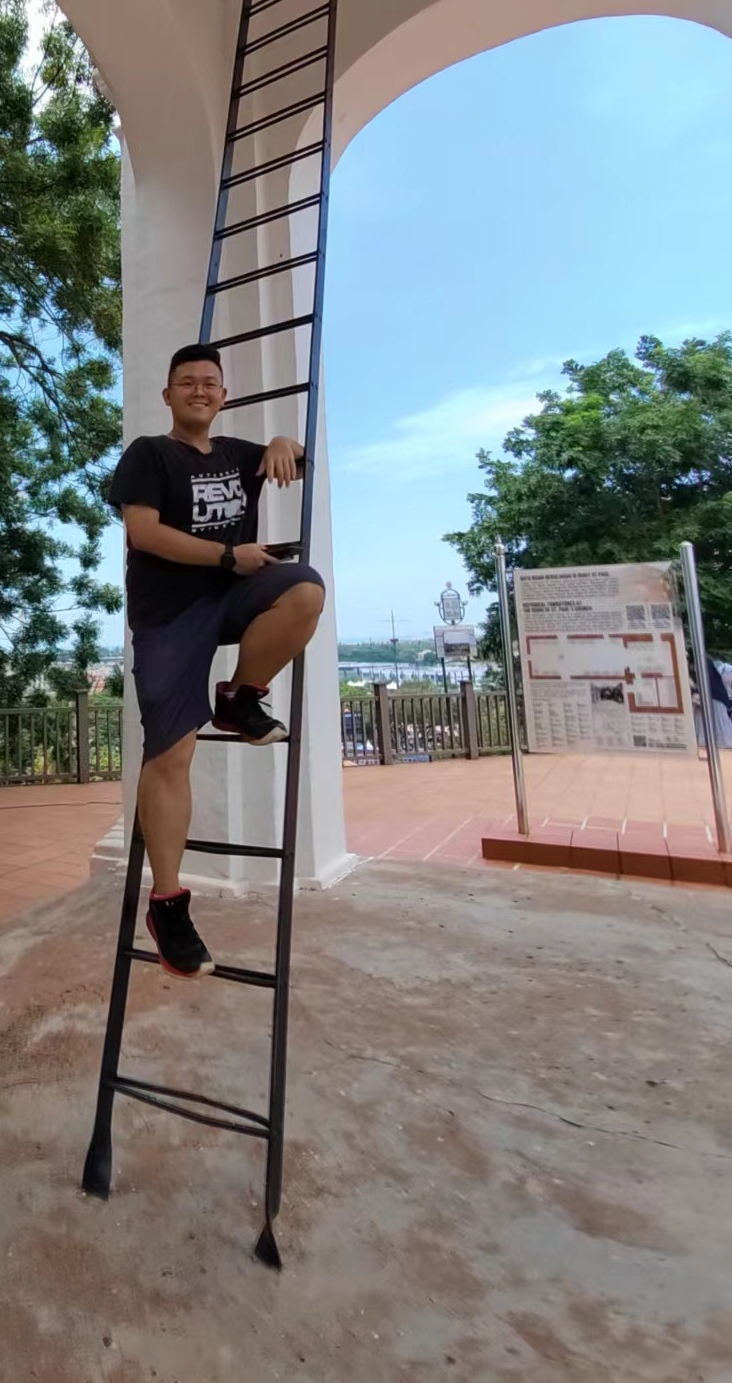
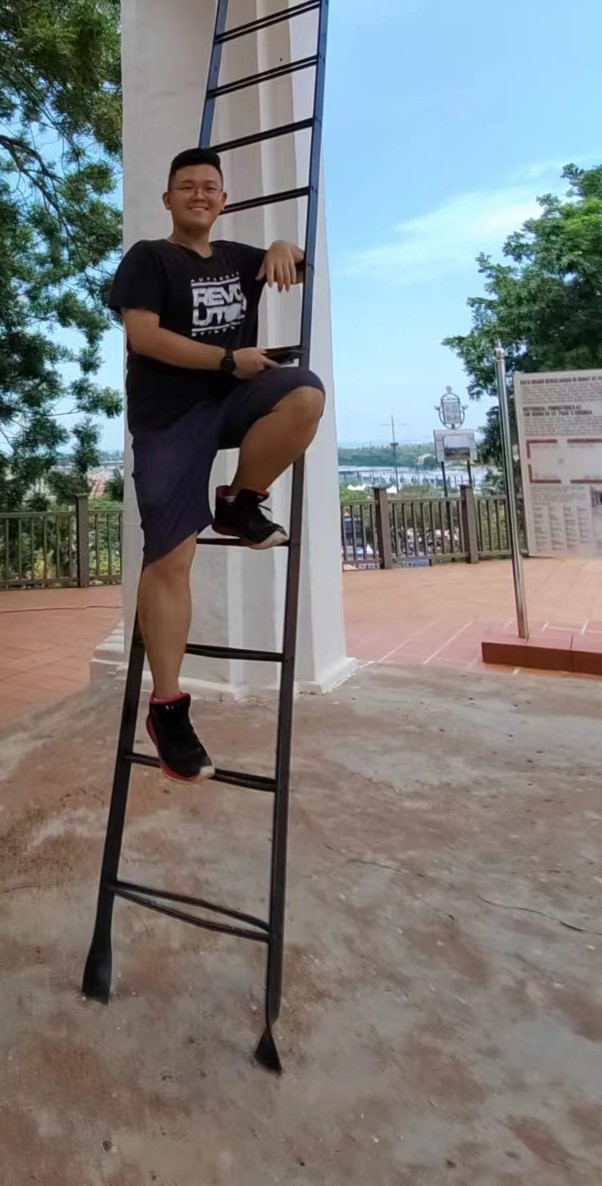
add image, code for reponsive,footer,font family

diff --git a/index.html b/index.html
@@ -5,24 +5,55 @@
     <title>TanXiaoWen Profile</title>
     <link rel="stylesheet" type="text/css" href="cssfolder/indexcss.css">
     <meta name="viewport" content="width=device-width, initial-scale=1.0">
+    <link rel="preconnect" href="https://fonts.googleapis.com">
+    <link rel="preconnect" href="https://fonts.gstatic.com" crossorigin>
+    <link
+        href="https://fonts.googleapis.com/css2?family=Bodoni+Moda:opsz@6..96&family=Cinzel:wght@500&family=Cormorant+Infant:wght@500&family=DM+Serif+Display&family=Frank+Ruhl+Libre&family=Heebo:wght@100&family=Kolker+Brush&family=Libre+Caslon+Display&family=Montaga&family=Radley&family=Sahitya&family=Tiro+Devanagari+Hindi&family=Work+Sans:wght@200&display=swap"
+        rel="stylesheet">
+    <link rel="preconnect" href="https://fonts.googleapis.com">
+    <link rel="preconnect" href="https://fonts.gstatic.com" crossorigin>
+    <link
+        href="https://fonts.googleapis.com/css2?family=Bodoni+Moda:opsz@6..96&family=Cinzel:wght@500&family=Cormorant+Infant:wght@500&family=DM+Serif+Display&family=Frank+Ruhl+Libre&family=Heebo:wght@100&family=Kolker+Brush&family=Libre+Caslon+Display&family=Montaga&family=Radley&family=Sahitya&family=Tiro+Devanagari+Hindi&family=Titillium+Web:wght@300&family=Work+Sans:wght@200&display=swap"
+        rel="stylesheet">
 </head>
 
 <body>
     <div id="container">
         <div class="header">
-            <img id="logo" src="img/l_logo.png" alt="Logo">
-        </div>
-        <div id="name">
-            <h1>Tan Xiao Wen</h1>
-        </div>
-        <div class="intro">
-            <p id="p" p>
-                My name is Tan Xiao Wen. I born in Kuching Sarawak in 2002.<br>
-                Now I am pursuing a bachelor's degree in cyber security.<br>
-                My hobby is playing basketball and cooking.<br>
+            <img class="logo" src="img/l_logo.png" alt="Logo">
+            <h1 id="name">Tan Xiao Wen</h1>
+            <div class="intro">
+                <p>
+                    My name is Tan Xiao Wen. I born in Kuching Sarawak in 2002.<br>
+                    Now I am pursuing a bachelor's degree in cyber security in New Era University College.<br>
+                    My hobby is playing basketball and cooking. I will do gym and play games during my free times.<br>
 
-            </p>
+
+                </p>
+
+            </div>
+            <div class="social">
+                <a href="https://www.facebook.com/leontan0127/">
+                    <img src="img/facebook.png" alt="FaceBook" height="40px" width="40px">
+                </a>
+                <a href="https://www.instagram.com/leon_.nnn/">
+                    <img src="img/instagram.png" alt="Instagram" height="40px" width="40px">
+                </a>
+            </div>
+        </div>
+        <div class="space">
+
+        </div>
+        <div id="box">
             <div id="menu">
+                <h1>Homework</h1>
+                <div class="dropdown">
+                    <button class="dropbtn">Week 1,2</button>
+                    <div class="dropdown-content">
+                        <a href="https://tanxiaowen0127.github.io/week1&2/about.html" target="_new">About</a>
+                        <a href="https://tanxiaowen0127.github.io/week1&2/index.html" target="_new">Index</a>
+                    </div>
+                </div>
                 <div class="dropdown">
                     <button class="dropbtn">Week 3</button>
                     <div class="dropdown-content">
@@ -54,8 +85,21 @@
                         <a href="https://tanxiaowen0127.github.io/week5/homework3.html" target="_new">Homework 3</a>
                     </div>
                 </div>
-
             </div>
+            <div>
+                <img id="img" src="img/selfphoto.jpg" alt="My Photo">
+            </div>
+        </div>
+        <div class="space">
+
+        </div>
+        <div id="footer">
+            <img class="logo" src="img/l_logo.png" alt="Logo">
+            <h1>Contact Me</h1>
+            <h3>Email</h3>
+            <p>tanxiaowen0127@e.newera.edu.my</p>
+            <h3>Phone No.</h3>
+            <p>011-33725662</p>
         </div>
     </div>
 </body>

diff --git a/cssfolder/indexcss.css b/cssfolder/indexcss.css
@@ -5,49 +5,61 @@
 }
 
 .header {
-    background-color: #4F8298;
+    text-align: center;
+    padding-bottom: 10px;
+    padding-top: 30px;
 }
 
-#logo {
-    display: block;
-    margin-left: auto;
-    margin-right: auto;
-    padding-top: 30px;
-    padding-bottom: 30px;
-    height: 100px;
+.logo {
+    height: 80px;
 }
 
 #name {
+    margin: 0%;
     text-align: center;
     color: #4F8298;
+    font-family: 'Kolker Brush', cursive;
+    font-size: 80px;
 }
 
 .intro {
-    color: #CCCDCD;
-    background-color: #4F8298;
-    text-align: center left;
-    justify-content: space-around;
+    color: #4F8298;
     font-size: 20px;
-    display: flex;
+    font-family: 'Titillium Web', sans-serif;
 }
 
+.space {
+    background-color: #F0EFEF;
+    border: 4px groove none;
+    padding: 20px;
+}
+
+#box {
+    display: flex;
+    justify-content: space-around;
+}
 
 #menu {
     display: flex;
     flex-direction: column;
+    font-family: 'Titillium Web', sans-serif;
 }
 
 .dropbtn {
-    background-color: #b02e0c;
-    color: #CCCDCD;
+    background-color: #4F8298;
+    color: #F0EFEF;
     padding: 16px;
     font-size: 16px;
     border: none;
+    border-radius: 20px;
+
 }
 
 .dropdown {
     position: relative;
     display: inline-block;
+    padding: 5px;
+
 }
 
 .dropdown-content {
@@ -57,6 +69,7 @@
     min-width: 160px;
     box-shadow: 0px 8px 16px 0px rgba(0, 0, 0, 0.2);
     z-index: 1;
+    border-radius: 20px;
 }
 
 .dropdown-content a {
@@ -69,6 +82,7 @@
 .dropdown-content a:hover {
     background-color: #CCCDCD;
     color: #4F8298;
+    border-radius: 20px;
 }
 
 .dropdown:hover .dropdown-content {
@@ -78,4 +92,26 @@
 .dropdown:hover .dropbtn {
     background-color: #4F8298;
     color: #CCCDCD;
+}
+
+
+
+#footer {
+    text-align: center;
+    padding: 10px;
+    font-family: 'Titillium Web', sans-serif;
+}
+
+@media screen and (max-width: 800px) {
+    .box {
+        flex-direction: column;
+    }
+
+    #menu {
+        width: 100%;
+    }
+
+    #img {
+        width: 100%;
+    }
 }
